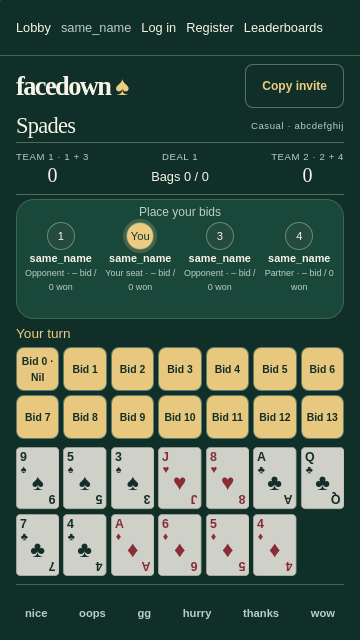
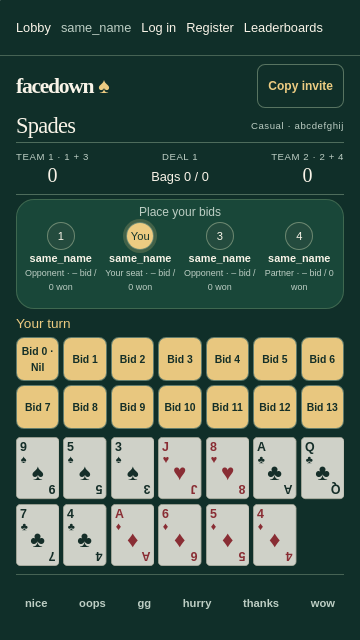
fix: keep enlarged bidding headers within the viewport #39

diff --git a/test/browser/bidding-fixture.ts b/test/browser/bidding-fixture.ts
@@ -1,0 +1,46 @@
+import { expect, type Page } from "@playwright/test";
+
+export async function checkBiddingLayout(
+  page: Page,
+  scale: number,
+  height: number,
+) {
+  // Include geometry in failures so different platform fonts can be diagnosed.
+  const geometry = await page
+    .locator(
+      ".account-nav, .brand, .game-heading, .scorebar, .board, .turn, .bids, .hand",
+    )
+    .evaluateAll((items) =>
+      items.map((item) => {
+        const box = item.getBoundingClientRect();
+        return {
+          class: item.className,
+          y: box.y,
+          height: box.height,
+          width: box.width,
+        };
+      }),
+    );
+  const detail = JSON.stringify(geometry);
+  if (scale <= 1.5)
+    for (const item of await page.locator(".piece, .bids button").all())
+      await expect(item, detail).toBeInViewport({ ratio: 1 });
+  if (height < 640) {
+    const hand = await page.locator(".hand").boundingBox();
+    const bids = await page.locator(".bids").boundingBox();
+    expect(hand && bids && hand.y + hand.height <= bids.y, detail).toBe(true);
+    await expect(page.locator(".bids")).toHaveCSS("position", "fixed");
+  }
+  expect(
+    await page.evaluate(
+      () => document.documentElement.scrollWidth <= innerWidth,
+    ),
+    detail,
+  ).toBe(true);
+  const you = await page.locator(".south .avatar").boundingBox();
+  const prompt = await page
+    .getByText("Place your bids", { exact: true })
+    .boundingBox();
+  if (you && prompt)
+    expect(prompt.y + prompt.height, detail).toBeLessThanOrEqual(you.y);
+}

diff --git a/test/browser/round2.spec.ts b/test/browser/round2.spec.ts
@@ -1,3 +1,4 @@
+import { checkBiddingLayout } from "./bidding-fixture";
 import { expect, test } from "./fixture";
 import { tableFixture } from "./table-fixture";
 
@@ -28,26 +29,7 @@ if (process.env.FACEDOWN_BROWSER === "1") {
         wire.send(0, { you: wire.record.moves[0]?.seat });
         await expect(page.locator(".piece")).toHaveCount(13);
         await expect(page.locator(".bids button")).toHaveCount(14);
-        if (scale <= 1.5)
-          for (const item of await page.locator(".piece, .bids button").all())
-            await expect(item).toBeInViewport({ ratio: 1 });
-        if (height < 640) {
-          const hand = await page.locator(".hand").boundingBox();
-          const bids = await page.locator(".bids").boundingBox();
-          expect(hand && bids && hand.y + hand.height <= bids.y).toBe(true);
-          await expect(page.locator(".bids")).toHaveCSS("position", "fixed");
-        }
-        expect(
-          await page.evaluate(
-            () => document.documentElement.scrollWidth <= innerWidth,
-          ),
-        ).toBe(true);
-        const you = await page.locator(".south .avatar").boundingBox();
-        const prompt = await page
-          .getByText("Place your bids", { exact: true })
-          .boundingBox();
-        if (you && prompt)
-          expect(prompt.y + prompt.height).toBeLessThanOrEqual(you.y);
+        await checkBiddingLayout(page, scale, height);
         if (
           (width === 1280 || width === 360) &&
           scale === 1 &&

diff --git a/client/src/bidding.css b/client/src/bidding.css
@@ -17,7 +17,8 @@
   display: grid;
   grid-template-columns: repeat(4, minmax(0, 1fr));
   grid-template-rows: auto 1fr;
-  height: 132px;
+  min-height: 132px;
+  height: auto;
   padding: 6px;
   border-radius: 18px;
   gap: 4px;
@@ -72,7 +73,7 @@
     grid-template-columns: repeat(7, minmax(0, 1fr));
   }
   .game.bidding .board {
-    height: 120px;
+    min-height: 110px;
   }
 }
 @media (max-height: 639px) {
@@ -131,4 +132,11 @@
 .game.bidding .turn {
   margin-top: 4px;
   margin-bottom: 4px;
+}
+
+.game.bidding .brand a {
+  font-size: clamp(1.2rem, 6vw, 1.65rem);
+}
+.game.bidding .brand .quiet {
+  padding-inline: 10px;
 }
